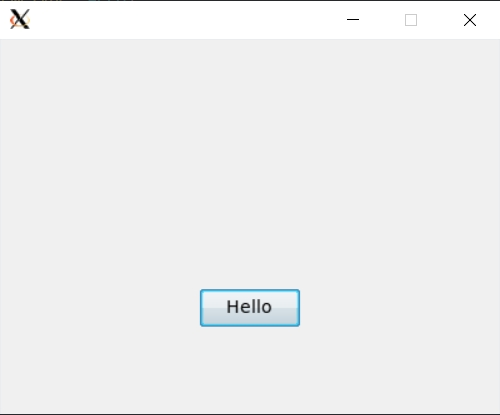
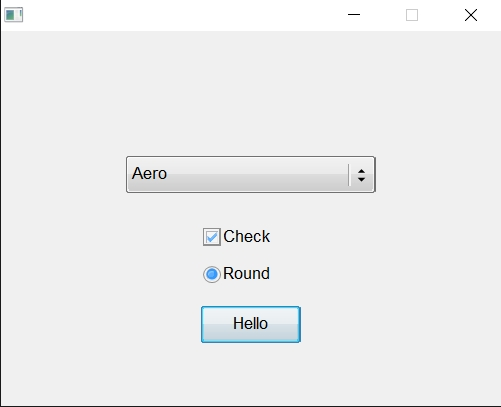
0.1.3

diff --git a/examples/frames.rs b/examples/frames.rs
@@ -1,0 +1,118 @@
+use fltk::{prelude::*, *};
+use fltk_theme::{widget_themes::*, ThemeType, WidgetTheme};
+
+fn main() {
+    let a = app::App::default();
+    let theme = WidgetTheme::new(ThemeType::Aqua);
+    theme.apply();
+    let mut win = window::Window::default().with_size(800, 800);
+    let mut choice = menu::Choice::new(300, 10, 200, 30, None);
+    choice.add_choice("Classic|Aero|Metro|Aqua|Greybird|Blue|HighContrast|Dark");
+    choice.set_value(3);
+    choice.set_frame(OS_PANEL_THIN_UP_BOX);
+    let mut vgrid = group::VGrid::new(50, 100, 700, 700, None);
+    vgrid.set_params(6, 6, 5);
+    let mut frame = frame::Frame::default().with_label(&"BUTTON_UP_BOX".to_lowercase());
+    frame.set_frame(OS_BUTTON_UP_BOX);
+    frame.set_label_size(10);
+    let mut frame = frame::Frame::default().with_label(&"CHECK_DOWN_BOX".to_lowercase());
+    frame.set_frame(OS_CHECK_DOWN_BOX);
+    frame.set_label_size(10);
+    let mut frame = frame::Frame::default().with_label(&"BUTTON_UP_FRAME".to_lowercase());
+    frame.set_frame(OS_BUTTON_UP_FRAME);
+    frame.set_label_size(10);
+    let mut frame = frame::Frame::default().with_label(&"CHECK_DOWN_FRAME".to_lowercase());
+    frame.set_frame(OS_CHECK_DOWN_FRAME);
+    frame.set_label_size(10);
+    let mut frame = frame::Frame::default().with_label(&"PANEL_THIN_UP_BOX".to_lowercase());
+    frame.set_frame(OS_PANEL_THIN_UP_BOX);
+    frame.set_label_size(10);
+    let mut frame = frame::Frame::default().with_label(&"SPACER_THIN_DOWN_BOX".to_lowercase());
+    frame.set_frame(OS_SPACER_THIN_DOWN_BOX);
+    frame.set_label_size(10);
+    let mut frame = frame::Frame::default().with_label(&"PANEL_THIN_UP_FRAME".to_lowercase());
+    frame.set_frame(OS_PANEL_THIN_UP_FRAME);
+    frame.set_label_size(10);
+    let mut frame = frame::Frame::default().with_label(&"SPACER_THIN_DOWN_FRAME".to_lowercase());
+    frame.set_frame(OS_SPACER_THIN_DOWN_FRAME);
+    frame.set_label_size(10);
+    let mut frame = frame::Frame::default().with_label(&"RADIO_ROUND_DOWN_BOX".to_lowercase());
+    frame.set_frame(OS_RADIO_ROUND_DOWN_BOX);
+    frame.set_label_size(10);
+    let mut frame = frame::Frame::default().with_label(&"HOVERED_UP_BOX".to_lowercase());
+    frame.set_frame(OS_HOVERED_UP_BOX);
+    frame.set_label_size(10);
+    let mut frame = frame::Frame::default().with_label(&"DEPRESSED_DOWN_BOX".to_lowercase());
+    frame.set_frame(OS_DEPRESSED_DOWN_BOX);
+    frame.set_label_size(10);
+    let mut frame = frame::Frame::default().with_label(&"HOVERED_UP_FRAME".to_lowercase());
+    frame.set_frame(OS_HOVERED_UP_FRAME);
+    frame.set_label_size(10);
+    let mut frame = frame::Frame::default().with_label(&"DEPRESSED_DOWN_FRAME".to_lowercase());
+    frame.set_frame(OS_DEPRESSED_DOWN_FRAME);
+    frame.set_label_size(10);
+    let mut frame = frame::Frame::default().with_label(&"INPUT_THIN_DOWN_BOX".to_lowercase());
+    frame.set_frame(OS_INPUT_THIN_DOWN_BOX);
+    frame.set_label_size(10);
+    let mut frame = frame::Frame::default().with_label(&"INPUT_THIN_DOWN_FRAME".to_lowercase());
+    frame.set_frame(OS_INPUT_THIN_DOWN_FRAME);
+    frame.set_label_size(10);
+    let mut frame = frame::Frame::default().with_label(&"MINI_BUTTON_UP_BOX".to_lowercase());
+    frame.set_frame(OS_MINI_BUTTON_UP_BOX);
+    frame.set_label_size(10);
+    let mut frame = frame::Frame::default().with_label(&"MINI_DEPRESSED_DOWN_BOX".to_lowercase());
+    frame.set_frame(OS_MINI_DEPRESSED_DOWN_BOX);
+    frame.set_label_size(10);
+    let mut frame = frame::Frame::default().with_label(&"MINI_BUTTON_UP_FRAME".to_lowercase());
+    frame.set_frame(OS_MINI_BUTTON_UP_FRAME);
+    frame.set_label_size(10);
+    let mut frame = frame::Frame::default().with_label(&"MINI_DEPRESSED_DOWN_FRAME".to_lowercase());
+    frame.set_frame(OS_MINI_DEPRESSED_DOWN_FRAME);
+    frame.set_label_size(10);
+    let mut frame = frame::Frame::default().with_label(&"DEFAULT_BUTTON_UP_BOX".to_lowercase());
+    frame.set_frame(OS_DEFAULT_BUTTON_UP_BOX);
+    frame.set_label_size(10);
+    let mut frame = frame::Frame::default().with_label(&"DEFAULT_HOVERED_UP_BOX".to_lowercase());
+    frame.set_frame(OS_DEFAULT_HOVERED_UP_BOX);
+    frame.set_label_size(10);
+    let mut frame =
+        frame::Frame::default().with_label(&"DEFAULT_DEPRESSED_DOWN_BOX".to_lowercase());
+    frame.set_frame(OS_DEFAULT_DEPRESSED_DOWN_BOX);
+    frame.set_label_size(10);
+    let mut frame = frame::Frame::default().with_label(&"TOOLBAR_BUTTON_HOVER_BOX".to_lowercase());
+    frame.set_frame(OS_TOOLBAR_BUTTON_HOVER_BOX);
+    frame.set_label_size(10);
+    let mut frame = frame::Frame::default().with_label(&"TABS_BOX".to_lowercase());
+    frame.set_frame(OS_TABS_BOX);
+    frame.set_label_size(10);
+    let mut frame = frame::Frame::default().with_label(&"SWATCH_BOX".to_lowercase());
+    frame.set_frame(OS_SWATCH_BOX);
+    frame.set_label_size(10);
+    let mut frame = frame::Frame::default().with_label(&"SWATCH_FRAME".to_lowercase());
+    frame.set_frame(OS_SWATCH_FRAME);
+    frame.set_label_size(10);
+    let mut frame = frame::Frame::default().with_label(&"BG_BOX".to_lowercase());
+    frame.set_frame(OS_BG_BOX);
+    frame.set_label_size(10);
+    frame::Frame::default();
+    frame::Frame::default();
+    frame::Frame::default();
+    vgrid.end();
+    win.end();
+    win.show();
+    choice.set_callback(|c| {
+        let theme = match c.value() {
+            0 => WidgetTheme::new(ThemeType::Classic),
+            1 => WidgetTheme::new(ThemeType::Aero),
+            2 => WidgetTheme::new(ThemeType::Metro),
+            3 => WidgetTheme::new(ThemeType::Aqua),
+            4 => WidgetTheme::new(ThemeType::Greybird),
+            5 => WidgetTheme::new(ThemeType::Blue),
+            6 => WidgetTheme::new(ThemeType::HighContrast),
+            7 => WidgetTheme::new(ThemeType::Dark),
+            _ => WidgetTheme::new(ThemeType::Classic),
+        };
+        theme.apply();
+    });
+    a.run().unwrap();
+}

diff --git a/examples/widget_theme.rs b/examples/widget_theme.rs
@@ -1,14 +1,36 @@
 use fltk::{prelude::*, *};
-use fltk_theme::{widget_themes, WidgetTheme, ThemeType};
+use fltk_theme::{widget_themes, ThemeType, WidgetTheme};
 
 fn main() {
     let a = app::App::default();
-    let widget_theme = WidgetTheme::new(ThemeType::Aqua);
-    widget_theme.apply();
+    let theme = WidgetTheme::new(ThemeType::Aqua);
+    theme.apply();
     let mut win = window::Window::default().with_size(400, 300);
-    let mut btn = button::Button::new(160, 200, 80, 30, "Hello");
+    let mut choice = menu::Choice::new(100, 100, 200, 30, None);
+    choice.add_choice("Classic|Aero|Metro|Aqua|Greybird|Blue|HighContrast|Dark");
+    choice.set_value(3);
+    choice.set_frame(widget_themes::OS_PANEL_THIN_UP_BOX);
+    let mut check = button::CheckButton::new(160, 150, 80, 30, "Check");
+    check.set_value(true);
+    let mut round = button::RoundButton::new(160, 180, 80, 30, "Round");
+    round.set_value(true);
+    let mut btn = button::Button::new(160, 220, 80, 30, "Hello");
     btn.set_frame(widget_themes::OS_DEFAULT_BUTTON_UP_BOX);
     win.end();
     win.show();
+    choice.set_callback(|c| {
+        let theme = match c.value() {
+            0 => WidgetTheme::new(ThemeType::Classic),
+            1 => WidgetTheme::new(ThemeType::Aero),
+            2 => WidgetTheme::new(ThemeType::Metro),
+            3 => WidgetTheme::new(ThemeType::Aqua),
+            4 => WidgetTheme::new(ThemeType::Greybird),
+            5 => WidgetTheme::new(ThemeType::Blue),
+            6 => WidgetTheme::new(ThemeType::HighContrast),
+            7 => WidgetTheme::new(ThemeType::Dark),
+            _ => WidgetTheme::new(ThemeType::Classic),
+        };
+        theme.apply();
+    });
     a.run().unwrap();
 }

diff --git a/examples/predef_color.rs b/examples/predef_color.rs
@@ -1,9 +1,9 @@
 use fltk::{prelude::*, *};
-use fltk_theme::{ColorTheme, color_themes};
+use fltk_theme::{color_themes, ColorTheme};
 
 fn main() {
     let a = app::App::default().with_scheme(app::Scheme::Gtk);
-    let theme = ColorTheme::from_colormap(color_themes::BLACK_THEME);
+    let theme = ColorTheme::from_colormap(color_themes::DARK_THEME);
     theme.apply();
     let mut win = window::Window::default().with_size(400, 300);
     let mut btn = button::Button::new(160, 200, 80, 40, "Hello");

diff --git a/src/color_themes/mod.rs b/src/color_themes/mod.rs
@@ -1,11 +1,11 @@
-mod tan;
 mod black;
+mod dark;
 mod gray;
 mod shake;
-mod dark;
+mod tan;
 
-pub use tan::*;
 pub use black::*;
+pub use dark::*;
 pub use gray::*;
 pub use shake::*;
-pub use dark::*;
+pub use tan::*;

diff --git a/README.md b/README.md
@@ -75,14 +75,13 @@ fn main() {
 - Greybird (Gnome xfce)
 ![alt_test](screenshots/greybird.jpg)
 
-
 ## Color themes
 
 - Black theme
 ![alt_test](screenshots/black.jpg)
 
 - Dark theme
-![alt_test](screenshots/dark_color.JPG)
+![alt_test](screenshots/dark_color.jpg)
 
 - Plain gray theme
 ![alt_test](screenshots/plain-gray.jpg)
@@ -92,3 +91,39 @@ fn main() {
 
 - Shake theme
 ![alt_test](screenshots/shake.jpg)
+
+## FrameTypes
+
+Choosing a WidgetTheme will also define a set of FrameTypes which can be used for your widgets.
+```
+OS_BUTTON_UP_BOX
+OS_CHECK_DOWN_BOX
+OS_BUTTON_UP_FRAME
+OS_CHECK_DOWN_FRAME
+OS_PANEL_THIN_UP_BOX
+OS_SPACER_THIN_DOWN_BOX
+OS_PANEL_THIN_UP_FRAME
+OS_SPACER_THIN_DOWN_FRAME
+OS_RADIO_ROUND_DOWN_BOX
+OS_HOVERED_UP_BOX
+OS_DEPRESSED_DOWN_BOX
+OS_HOVERED_UP_FRAME
+OS_DEPRESSED_DOWN_FRAME
+OS_INPUT_THIN_DOWN_BOX
+OS_INPUT_THIN_DOWN_FRAME
+OS_MINI_BUTTON_UP_BOX
+OS_MINI_DEPRESSED_DOWN_BOX
+OS_MINI_BUTTON_UP_FRAME
+OS_MINI_DEPRESSED_DOWN_FRAME
+OS_DEFAULT_BUTTON_UP_BOX
+OS_DEFAULT_HOVERED_UP_BOX
+OS_DEFAULT_DEPRESSED_DOWN_BOX
+OS_TOOLBAR_BUTTON_HOVER_BOX
+OS_TABS_BOX
+OS_SWATCH_BOX
+OS_SWATCH_FRAME
+OS_BG_BOX
+```
+
+You can check the frames example to see all `FrameType`'s you can apply to you widgets.
+![alt_test](screenshots/frames.jpg)
